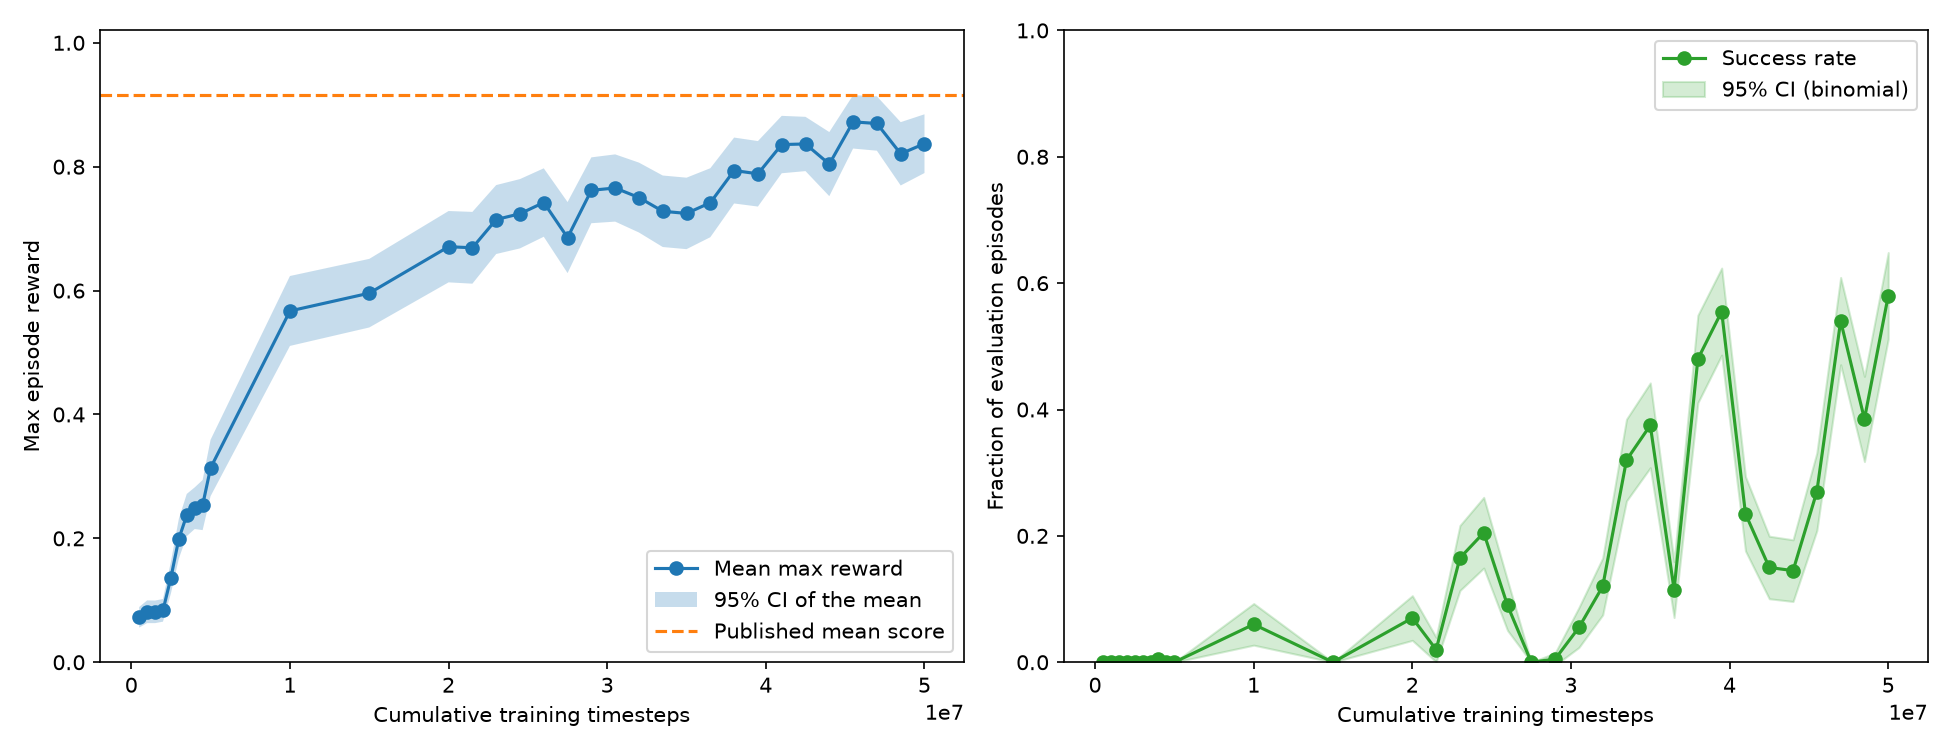
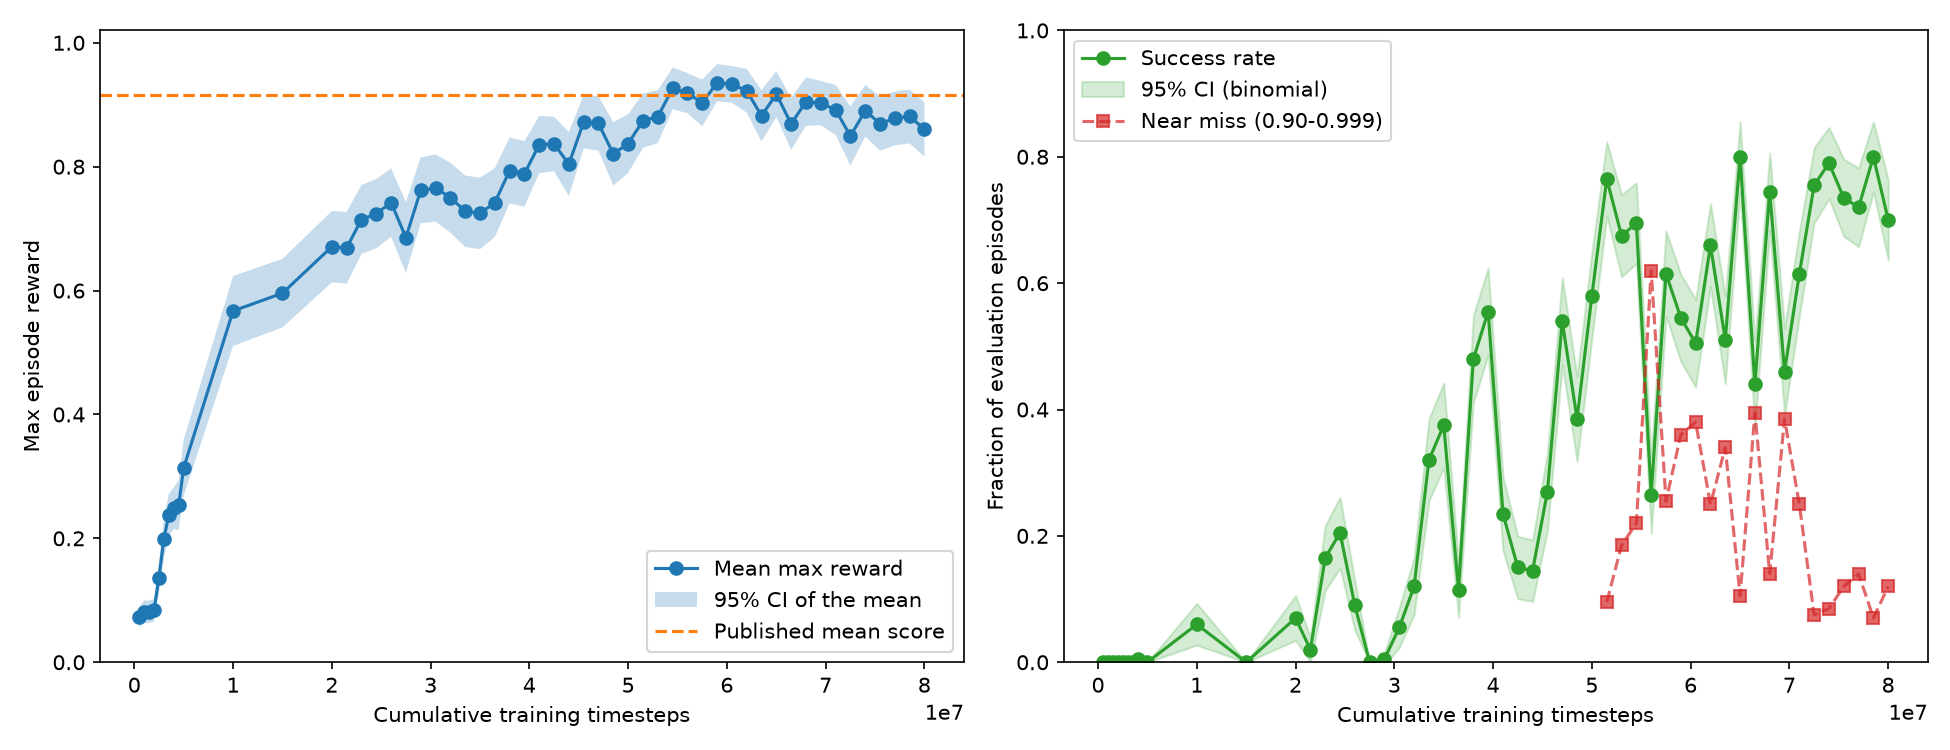
Update results to 80M steps, add multi-episode demo
Final numbers: 0.936 best mean max coverage reward, 80% peak success rate,
up from 0.87 / 58% at 50M. Training plateaued over the last ~20M steps so the
run was stopped there.

Adds a 3x3 grid GIF of nine episodes from different initial states played in
lockstep (8/9 succeed), and regenerates the single-episode GIF and the
training curve from the best checkpoint. Notes that the success-rate swings
track the near-miss band rather than reflecting real regressions.

diff --git a/README.md b/README.md
@@ -7,26 +7,43 @@ good enough to serve as the terminal cost for an MPC planner.
 ![A trained PPO policy pushing the tee onto the goal pose](pusht_success.gif)
 
 Grey tee is the block, green outline is the goal pose, blue dot is the pusher.
-This episode reaches 0.965 coverage in 53 steps.
+This episode reaches 0.954 coverage in 81 steps.
 
 ## Results
 
 ![Training progress](training_progress.png)
 
-PPO from scratch on state observations, 50M steps:
+PPO from scratch on state observations, 80M steps:
 
 | | start | best |
 |---|---|---|
-| Mean max coverage reward | 0.07 | **0.87** |
-| Success rate (coverage > 0.95) | 0% | **58%** |
+| Mean max coverage reward | 0.07 | **0.936** |
+| Success rate (coverage > 0.95) | 0% | **80%** |
 
 For reference, the published Push-T scores of 0.915 / 0.969 come from
-*imitation learning on human demonstrations*, not from-scratch RL.
+*imitation learning on human demonstrations*, not from-scratch RL. The metrics
+are closely analogous but not a verified identical protocol, so this is best
+read as "comparable coverage by a different route", not as a head-to-head win.
 
-Note the two panels diverge late in training. The evaluation reward is capped
-at 1.0, so once the policy is good, converting a 0.93 episode into a success
-barely moves the mean but is the whole point. **Success rate is the metric to
-judge by**; mean max reward saturates.
+Nine episodes from different initial states, played in lockstep. A tile freezes
+when it finishes: green border reached the goal, grey ran out of steps.
+
+![Nine episodes from different initial states](pusht_grid.gif)
+
+Two things worth reading off these curves:
+
+- **The panels diverge late in training.** The evaluation reward is capped at
+  1.0, so once the policy is good, converting a 0.93 episode into a success
+  barely moves the mean but is the whole point. Success rate is the metric to
+  judge by; mean max reward saturates.
+- **The success-rate swings are mostly threshold noise, not regressions.** The
+  red near-miss band (episodes at 0.90-0.999) mirrors the green curve: at the
+  56M dip to 26% success, the near-miss band jumped to 62%. Those episodes did
+  not get worse, they just sat below the line. Judge the trend, not a point.
+
+Training plateaued in the last ~20M steps, oscillating in a 0.85-0.94 band with
+no further trend, so the run was stopped at 80M. Note the best-mean checkpoint
+(59M) and the best-success checkpoints (65M, 78.5M) are not the same one.
 
 ## What it took to make PPO work
 
@@ -154,8 +171,11 @@ does, which is why the project moved here.
 
 ## Next steps
 
-1. Frame stacking, to make the observation Markov.
-2. Anneal the policy-std floor, trading exploration for final placement
-   precision once the approach behaviour is learned.
+1. Anneal the policy-std floor. At the current floor of 0.12 the action jitter
+   is ~1.6px, while the median positional error at the point of best coverage
+   is ~2.5px - so exploration noise is the same order as the accuracy still
+   needed. Now that the curve has flattened, this is a clean single-variable
+   experiment against a well-characterised baseline.
+2. Frame stacking, to make the observation Markov.
 3. Use the PPO critic as the terminal cost in an MPC planner - the original
    goal of the project.
